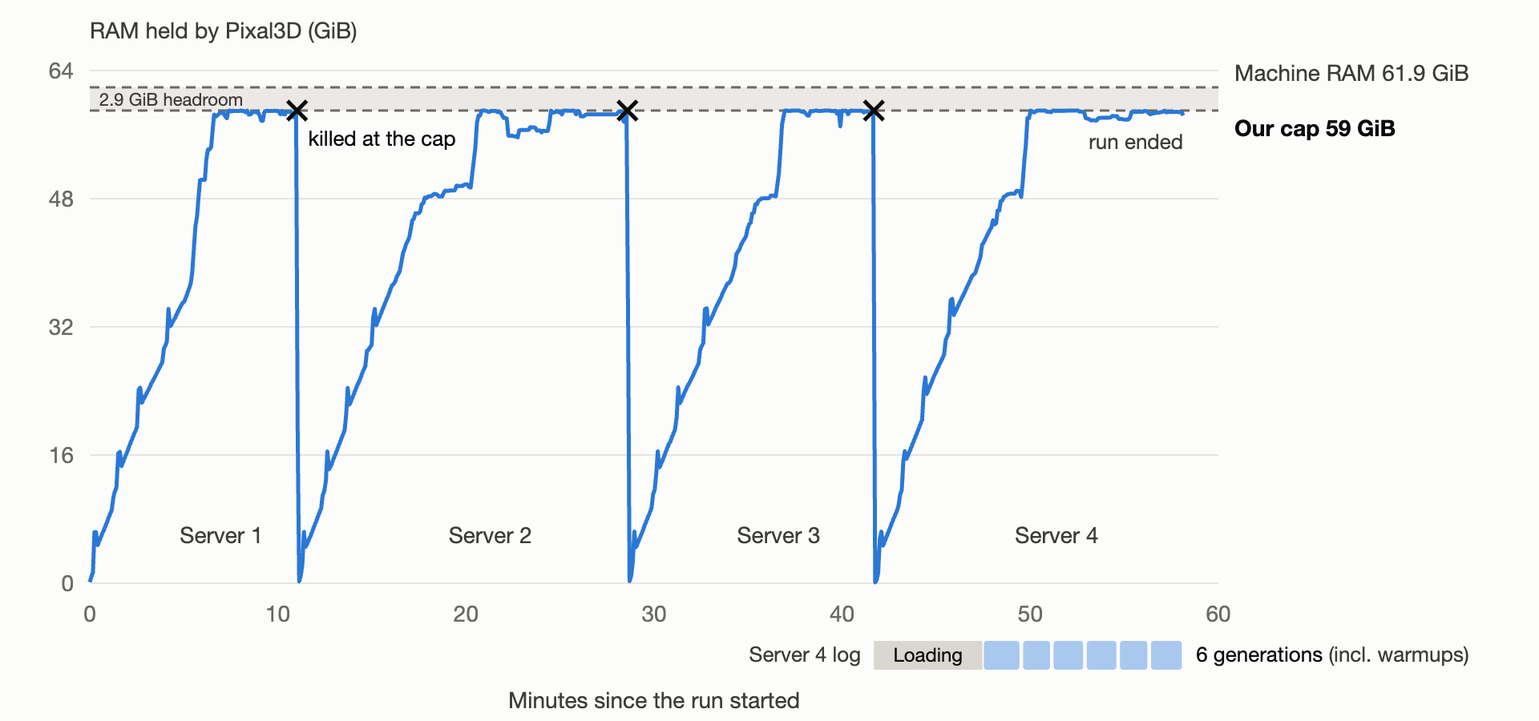
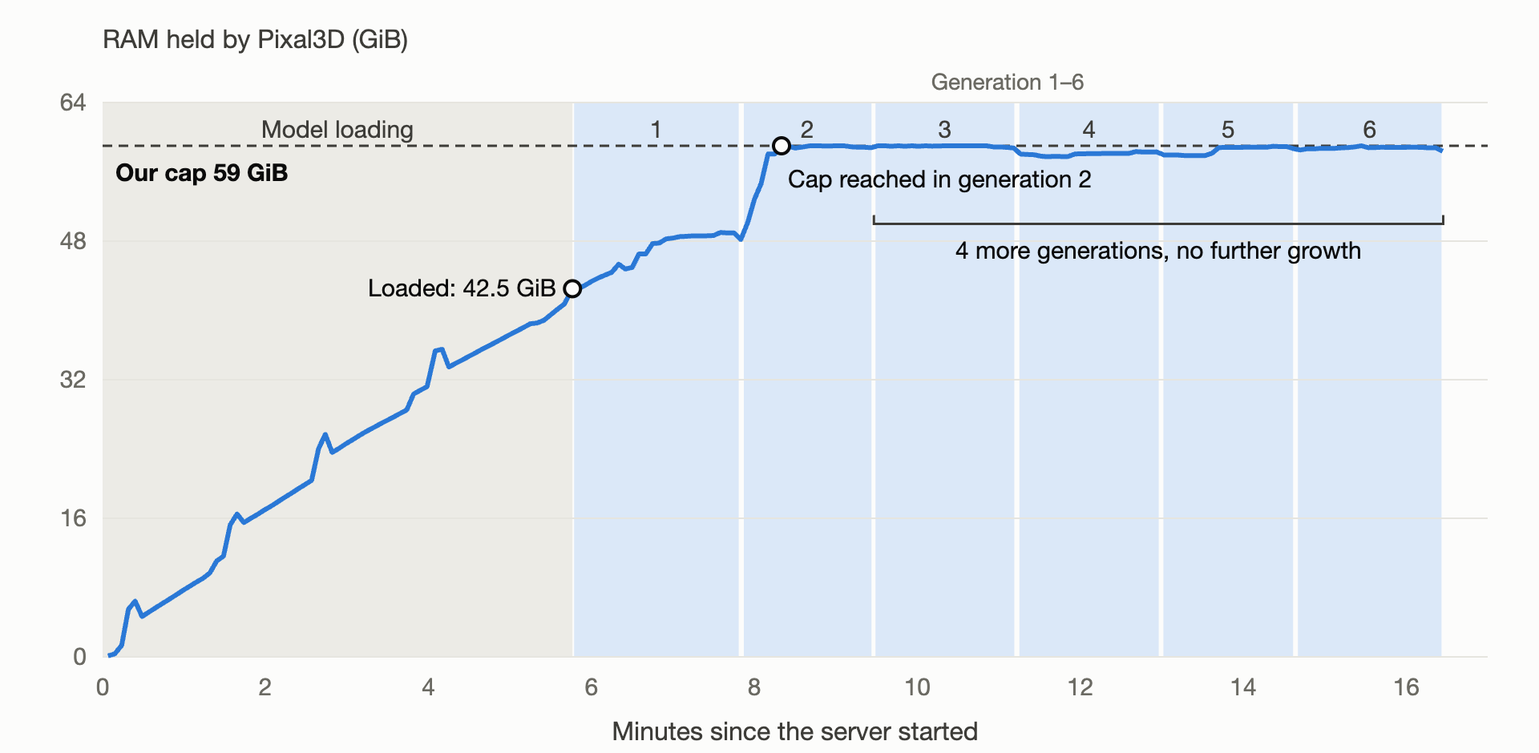
docs(readme): attribute the 4090 restarts to the low_vram peak and our RAM cap

diff --git a/README.ko.md b/README.ko.md
@@ -73,7 +73,7 @@ curl -o chair.glb localhost:8103/api/workflows/runs \
 
 입력마다 한 번씩 생성했다(seed 7, 고흐의 방 의자만 두 번). 판정은 작성자 1인이 확정했다.
 
-1. RTX 4090에서 3D 하나에 중앙값 115초(83~200초), GPU 메모리 약 19.4GiB가 들었다. 다만 그러려면 단계 모델을 시스템 RAM에 두는 `low_vram`을 켜야 했고, 그러면 RAM을 약 59GiB 썼다. 64GB PC에서는 서버를 띄울 때마다 많아야 3개를 만들고 메모리가 모자라 멈췄다([2장](#2-내-기기에서-돌아가는가)).
+1. RTX 4090에서 3D 하나에 중앙값 115초(83~200초), GPU 메모리 약 19.4GiB가 들었다. 다만 그러려면 단계 모델을 시스템 RAM에 두는 `low_vram`을 켜야 했고, 그러면 RAM을 최대 약 59GiB 썼다. 이 최대치가 64GB PC에 우리가 건 RAM 상한(59GiB)과 거의 같아서, 서버를 띄울 때마다 많아야 3개를 만들고 상한에 걸려 작업 프로세스가 종료됐다. 생성할수록 RAM이 계속 늘지는 않았다([2장](#2-내-기기에서-돌아가는가)).
 2. `low_vram`을 끄면 생성 해상도 1536(기본)에서는 생성 직전에 GPU 메모리가 22.45GiB 차 있었고, 1536과 1024 모두 생성을 시작하자마자 GPU 메모리 부족으로 실패했다([2장](#2-내-기기에서-돌아가는가)).
 3. 명화 11점 모두 3D 메시가 나왔고, 손에 가려진 우유 주전자 하나를 빼면 돌려 봐도 이어지는 입체였다. 형태를 판정한 4점 중 2점은 실루엣이 그림과 같았고, 2점은 큰 윤곽은 맞되 일부가 빠지거나 옆·뒤가 찢겼다([3.1](#31-그림-한-장--3d)).
 4. 결과는 모두 그림의 시점, 기울기, 배치 그대로 놓였다. 그래서 그림의 원근 왜곡도 형태가 됐다. 고흐의 의자는 옆에서 보면 크게 기울어 있다([3.2](#32-그림의-시점-그대로)).
@@ -88,7 +88,7 @@ curl -o chair.glb localhost:8103/api/workflows/runs \
 | 기기 | 돌아가나 | 3D 하나 생성 | 최대 메모리 |
 |---|---|---|---|
 | Apple M2 16GB | 공식 코드는 돌지 않는다(CUDA 전용). 제3자 8비트 이식판으로는 1장이 돌아갔다 | 약 34분(1장, 배경 제거 8분 포함) | 재지 못했다(스왑 +3.3GB) |
-| RTX 4090 24GB(RAM 64GB) | `low_vram`을 켜면 돌아가지만, 서버당 많아야 3개 뒤 RAM 부족으로 멈춘다 | 115초(중앙값) | GPU 19.4GiB, 시스템 RAM 약 59GiB |
+| RTX 4090 24GB(RAM 64GB) | `low_vram`을 켜면 돌아간다. RAM 최대치가 우리가 건 상한(59GiB)과 비슷해, 서버당 많아야 3개 뒤 상한에 걸렸다 | 115초(중앙값) | GPU 19.4GiB, 시스템 RAM 약 59GiB |
 | DGX Spark(GB10, 통합 메모리 128GB) | CUDA 툴킷과 Triton을 맞추면 돌아간다(CUDA 12.9로 빌드, Triton 3.5.1). `low_vram`을 끄고 해상도 1536으로도 돌아간다 | 169~420초(`low_vram` 켬, 1024), 255~305초(끔, 1536) | 기기 전체 약 47GiB(`low_vram` 끔). 켜면 작업 프로세스만 89.6GiB |
 
 메모리 열은 기기마다 잰 대상이 달라 서로 바로 비교할 수 없다. 4090은 GPU 메모리와 측정 프로세스 묶음의 RAM, DGX Spark는 기기 전체 사용량(`free`)과 작업 프로세스 RSS, Mac은 스왑 증가량이다.
@@ -128,9 +128,9 @@ curl -o chair.glb localhost:8103/api/workflows/runs \
 
 `low_vram`을 켜면 단계 모델을 시스템 RAM에 두고 필요한 단계만 GPU로 옮긴다. GPU는 19.4GiB로 줄었지만 대신 시스템 RAM을 약 59GiB 썼다. 이번 4090 PC의 RAM은 61.9GiB였다. 처음에 상한 없이 돌렸을 때는 RAM과 스왑이 바닥나 원격 접속이 10분간 끊겼다. 그 뒤로는 측정 프로세스에 상한(59GiB)을 걸었고, 넘으면 측정만 멈추게 했다.
 
-![4090에서 Pixal3D가 쓴 RAM의 시간 변화. 서버를 띄울 때마다 약 7분에 걸쳐 59GiB까지 차오르고, 생성을 몇 번 하다가 상한에 걸려 끊기기를 반복한다](docs/images/ko/ram-4090.png)
+![4090에서 Pixal3D 서버 하나가 쓴 RAM. 모델 로딩 동안 42.5GiB까지 오르고, 두 번째 생성 중 59GiB 상한에 닿은 뒤 4번을 더 생성해도 그대로다](docs/images/ko/ram-4090.png)
 
-그림 2(4090): Pixal3D가 쓴 시스템 RAM. 서버를 띄우면 약 7분 안에 59GiB 가까이 찬다(이 값에는 파일 캐시가 포함된다). 로그가 남은 서버 4에서는 모델 로딩 5.8분 뒤 42.5GiB였고, 두 번째 생성 중에 상한에 닿았다(그림 아래 띠). 그 상태로 많아야 3개를 만들다가 상한에 걸려 작업 프로세스가 종료됐다. 종료 순간 작업 프로세스가 실제로 쥔 메모리는 58.7GiB였다. 이 그림은 명화 7점(3.4·3.5절)을 만든 실행의 기록이고, 7점을 채우는 데 서버를 네 번 띄웠다.
+그림 2(4090): Pixal3D 서버 하나(명화 7점 실행의 네 번째 서버)가 쓴 시스템 RAM(파일 캐시 포함). 모델 로딩 5.8분 동안 42.5GiB까지 차고, 두 번째 생성 중에 우리가 건 상한(59GiB)에 닿았다. 그 뒤로는 4번을 더 생성해도 늘지 않았다. 같은 실행의 서버 1~3은 생성 중 잠깐 상한을 넘는 순간 작업 프로세스가 종료됐고(서버마다 많아야 3개), 종료 순간 작업 프로세스가 쥔 메모리는 58.7GiB였다. 명화 7점(3.4·3.5절)을 채우는 데 서버를 네 번 띄웠다.
 
 표 3: RTX 4090, 그림별 생성 시간과 결과 크기(입력을 읽는 크기 512, seed 7)
 
@@ -201,7 +201,7 @@ python tools/run_pixal3d_estimated.py --image cut_cutout.png --models <models> \
 - **4090에서 RAM 상한에 걸린 입력 1024 읽기가 DGX Spark에서는 돌았다.** 512보다 5~7% 더 걸렸고 면 수는 거의 같았다.
 - **GPU 메모리 최대치는 17.7~18.0GiB였지만, 통합 메모리에서는 이 값이 작업이 쥔 메모리를 보여 주지 않는다.** 이 값은 nvidia-smi가 서버 프로세스에 대해 알려 주는 GPU 메모리다(GB10에서는 기기 전체 값이 [N/A]). `low_vram`을 끈 1536(아래)에서도 17.7~17.8GiB였는데, 그때 기기 전체로는 약 47GiB를 썼다.
 
-**통합 메모리에서는 `low_vram`이 오히려 메모리를 더 쓴 것으로 보인다.** `low_vram`을 켜면 워밍업과 첫 생성 뒤 작업 프로세스의 상주 메모리(RSS)가 89.6GiB였다. 끄고 1536으로 돌리면 기기 전체 메모리 사용이 약 47GiB였고, 서버 한 번에 3D 3개를 연달아 만들었다. `low_vram`을 켠 첫 서버는 다음 생성에서 우리가 건 100GiB 상한에 걸려 메모리 부족으로 종료됐다. 다시 띄운 서버 두 번은 각각 워밍업을 포함해 6번을 연달아 생성하는 동안 상한에 걸리지 않았다. 두 값은 같은 지표가 아니다. 89.6GiB는 작업 프로세스의 RSS라 메모리에 올린 가중치 파일 페이지가 들어갈 수 있고, 47GiB는 생성 중 한 시점에 `free`로 본 기기 전체 사용량이다.
+**통합 메모리에서는 `low_vram`이 오히려 메모리를 더 쓴 것으로 보인다.** `low_vram`을 켜면 워밍업과 첫 생성 뒤 작업 프로세스의 상주 메모리(RSS)가 89.6GiB였다. 끄고 1536으로 돌리면 기기 전체 메모리 사용이 약 47GiB였고, 서버 한 번에 3D 3개를 연달아 만들었다. `low_vram`을 켠 첫 서버는 다음 생성 도중 잠깐 우리가 건 100GiB 상한을 넘어 작업 프로세스가 종료됐다. 다시 띄운 서버 두 번은 각각 워밍업을 포함해 6번을 연달아 생성하는 동안 상한에 걸리지 않았다. 두 값은 같은 지표가 아니다. 89.6GiB는 작업 프로세스의 RSS라 메모리에 올린 가중치 파일 페이지가 들어갈 수 있고, 47GiB는 생성 중 한 시점에 `free`로 본 기기 전체 사용량이다.
 
 **`low_vram`을 끈 생성 해상도 1536(업스트림 기본값)도 DGX Spark에서는 돌았다.** 4090에서는 돌지 않던 설정이다. 그림 3점을 seed 7로 다시 만들었다.
 
@@ -308,7 +308,7 @@ python tools/run_pixal3d_estimated.py --image cut_cutout.png --models <models> \
 
 ## 4 권고
 
-- 24GB GPU에서는 `low_vram: true`, `resolution: 1024`로 띄운다. 시스템 RAM이 64GB라면 다른 큰 프로그램을 끄고, 서버가 몇 개 만든 뒤 멈추면 다시 띄운다. RAM 96GB 이상이면 여유가 생길 것으로 보지만 재지 않았다.
+- 24GB GPU에서는 `low_vram: true`, `resolution: 1024`로 띄운다. 시스템 RAM이 64GB라면 다른 큰 프로그램을 끄고, RAM 상한에 걸려 작업 프로세스가 종료되면 서버를 다시 띄운다. RAM 96GB 이상이면 여유가 생길 것으로 보지만 재지 않았다.
 - DGX Spark(통합 메모리 128GB)에서는 `low_vram: false`로 띄운다. 켜면 작업 프로세스가 89.6GiB까지 커져 한 번은 우리가 건 100GiB 상한에서 종료됐다. 끄고 1536으로 돌리면 기기 전체로 약 47GiB를 썼다. 돌리려면 2장처럼 CUDA 툴킷과 Triton을 맞춰야 한다.
 - 서버는 한 번 띄워 여러 장을 이어서 처리한다. 모델 로딩이 5~6.5분으로, 3D 하나를 만드는 시간(약 2분)의 세 배쯤이다.
 - 입력은 물체만 남기고 배경을 미리 지워 넣는다. 배경째 넣으면 7점 중 5점에서 바닥이나 배경이 판으로 붙었다.
@@ -330,14 +330,14 @@ python tools/run_pixal3d_estimated.py --image cut_cutout.png --models <models> \
 | 현상 | 보인 곳 | 확인하지 못한 가설 |
 |---|---|---|
 | 바닥·배경이 판으로 붙음 | 물뿌리개, 장미, 우유 주전자, 인물 머리 | seed를 바꿔도 같은 자리에 붙는가(그림 속 바닥이 정하는가) |
-| 옆·뒤 표면의 구멍과 찢김 | 구두, 인물 머리, 의자 | 입력을 1024로 읽으면 줄어드는가(4090은 RAM 부족, DGX Spark는 의자와 해골을 1024로 만들었지만 이 리포트에서 표면을 비교하지 않았다) |
+| 옆·뒤 표면의 구멍과 찢김 | 구두, 인물 머리, 의자 | 입력을 1024로 읽으면 줄어드는가(4090은 RAM 상한에 걸림, DGX Spark는 의자와 해골을 1024로 만들었지만 이 리포트에서 표면을 비교하지 않았다) |
 | 그림에 없던 청록 얼룩 | 의자, 구두 | 그림의 벽·바닥 색이 번진 것인가 |
 | 뒷면이 단순한 어두운 덩어리 | 사과 바구니, 인물 머리 | |
 | 그림 끝에서 잘린 면이 평평하게 남음 | 헤다 주석 주전자, 인물 머리 | 그림 테두리가 정하는가 |
 | 흩어진 얇은 파편 | 헤다 정물 바닥 | |
 
 - 입력마다 seed 하나(7)로 한 번씩 생성했다. 같은 seed로 두 번 만든 고흐의 방 의자는 GLB 크기가 35.8MB, 35.7MB로 조금 달랐지만 형태가 얼마나 다른지는 비교하지 않았다. seed에 따라 얼마나 달라지는지도 재지 않았다.
-- 면 수와 텍스처 크기를 줄인 GLB(게임·웹용)는 만들지 않았다. 4090이 서버를 띄울 때마다 많아야 3개만 만들어서, 작품 수를 늘리는 데 시간을 썼다.
+- 면 수와 텍스처 크기를 줄인 GLB(게임·웹용)는 만들지 않았다. 4090에서는 RAM 상한 때문에 서버를 띄울 때마다 많아야 3개만 만들 수 있어서, 작품 수를 늘리는 데 시간을 썼다.
 - 실제 사진은 넣지 않았다. 모든 입력이 유화다.
 - 멀티뷰 입력(여러 각도 사진을 함께 넣는 기능)은 카메라 포즈가 필요해 시험하지 않았다.
 - 논문의 수치(Toys4K의 IoU 등)는 다시 재지 않았고, 다른 이미지→3D 모델과 비교하지 않았다.

diff --git a/README.md b/README.md
@@ -73,7 +73,7 @@ The result is one GLB file (about 1 million faces, 4096×4096 texture, 35–45MB
 
 Each input was generated once (seed 7; only The Bedroom chair twice). One author confirmed the verdicts.
 
-1. On an RTX 4090, one 3D took a median of 115 s (83–200 s) and about 19.4GiB of GPU memory. Getting there required turning on `low_vram`, which keeps the stage models in system RAM, and then RAM use was about 59GiB. On a 64GB PC, each server start made at most 3 models and then stopped for lack of memory ([Section 2](#2-does-it-run-on-my-machine)).
+1. On an RTX 4090, one 3D took a median of 115 s (83–200 s) and about 19.4GiB of GPU memory. Getting there required turning on `low_vram`, which keeps the stage models in system RAM, and then RAM use peaked at about 59GiB. That peak is almost exactly the RAM cap we set on the 64GB PC (59GiB), so each server start made at most 3 models before the worker process hit the cap and was terminated. RAM did not keep growing with each generation ([Section 2](#2-does-it-run-on-my-machine)).
 2. With `low_vram` off, at generation resolution 1536 (default) GPU memory was already at 22.45GiB just before generation, and at both 1536 and 1024 generation failed with GPU out-of-memory as soon as it started ([Section 2](#2-does-it-run-on-my-machine)).
 3. All 11 paintings produced a 3D mesh, and except for one milk jug hidden by a hand, each was a continuous solid when rotated. Of the 4 judged on shape, 2 had the same silhouette as the painting, and 2 had the overall outline right but lost some parts or were torn on the sides and back ([3.1](#31-one-picture--3d)).
 4. Every result sat in the painting's own viewpoint, tilt and placement. So the painting's perspective distortions also became shape. Van Gogh's chair leans sharply when seen from the side ([3.2](#32-in-the-paintings-own-viewpoint)).
@@ -88,7 +88,7 @@ Table 1: Summary by device
 | Device | Runs? | One 3D | Peak memory |
 |---|---|---|---|
 | Apple M2 16GB | The official code does not (CUDA-only). A third-party 8-bit port ran one picture | About 34 min (1 picture, incl. 8 min background removal) | Not measured (swap +3.3GB) |
-| RTX 4090 24GB (64GB RAM) | Runs with `low_vram` on, but stops after at most 3 per server for lack of RAM | 115 s (median) | GPU 19.4GiB, system RAM about 59GiB |
+| RTX 4090 24GB (64GB RAM) | Runs with `low_vram` on. Peak RAM is close to our 59GiB cap, so each server hit the cap after at most 3 | 115 s (median) | GPU 19.4GiB, system RAM about 59GiB |
 | DGX Spark (GB10, 128GB unified memory) | Runs with a matching CUDA toolkit and Triton (built with CUDA 12.9, Triton 3.5.1). Also runs with `low_vram` off at resolution 1536 | 169–420 s (`low_vram` on, 1024), 255–305 s (off, 1536) | Whole device about 47GiB (`low_vram` off). With it on, the worker alone 89.6GiB |
 
 The memory column measures different things per device, so the numbers cannot be compared directly: GPU memory and the measured process group's RAM on the 4090, whole-device usage (`free`) and the worker's RSS on the DGX Spark, and swap growth on the Mac.
@@ -128,9 +128,9 @@ Table 2: Devices and methods
 
 With `low_vram` on, the stage models stay in system RAM and only the stage that is needed moves to the GPU. GPU use dropped to 19.4GiB, but system RAM use was about 59GiB instead. This 4090 PC had 61.9GiB of RAM. The first time we ran it without a cap, RAM and swap ran out and remote access was lost for 10 minutes. After that we put a cap (59GiB) on the measured processes, so that going over it stopped only the measurement.
 
-![System RAM used by Pixal3D on the 4090 over time. Each server start fills it to 59GiB over about 7 minutes, then after a few generations it hits the cap and is cut off, again and again](docs/images/en/ram-4090.png)
+![RAM used by one Pixal3D server on the 4090. It climbs to 42.5GiB during model loading, reaches the 59GiB cap during the second generation, and stays there through four more generations](docs/images/en/ram-4090.png)
 
-Figure 2 (4090): System RAM used by Pixal3D. After a server start, it fills to near 59GiB within about 7 minutes (this value includes the file cache). On server 4, whose log survives, RAM was 42.5GiB after 5.8 minutes of model loading and reached the cap during the second generation (strip below the chart). In that state it made at most 3 models, then hit the cap and the worker process was terminated. At the moment of termination, the memory the worker process actually held was 58.7GiB. This chart is the run that made 7 of the paintings (sections 3.4 and 3.5); completing those 7 took four server starts.
+Figure 2 (4090): System RAM used by one Pixal3D server (the fourth server of the run that made 7 paintings), including the file cache. It filled to 42.5GiB over 5.8 minutes of model loading and reached our cap (59GiB) during the second generation. After that it did not grow over four more generations. In the same run, on servers 1–3 the worker process was terminated when a generation briefly pushed past the cap (at most 3 per server); at that moment the worker process held 58.7GiB. Completing the 7 paintings (sections 3.4 and 3.5) took four server starts.
 
 Table 3: RTX 4090, generation time and output size per painting (input read size 512, seed 7)
 
@@ -201,7 +201,7 @@ Table 4: DGX Spark and RTX 4090 with the same settings (`low_vram` on, generatio
 - **Reading the input at 1024, which hit the RAM cap on the 4090, ran on the DGX Spark.** It took 5–7% longer than at 512, and face counts were nearly the same.
 - **Peak GPU memory was 17.7–18.0GiB, but on unified memory this number does not show how much memory the job holds.** It is the GPU memory nvidia-smi reports for the server's processes (the whole-device value reads [N/A] on GB10). With `low_vram` off at 1536 (below) it was also 17.7–17.8GiB, while the whole device used about 47GiB.
 
-**On unified memory, `low_vram` appeared to use more memory, not less.** With `low_vram` on, the worker process's resident memory (RSS) was 89.6GiB after the warmup and the first generation. With it off at 1536, memory use for the whole device was about 47GiB, and three 3D models were made in a row on one server start. With `low_vram` on, the first server start hit the 100GiB cap we set on the next generation and the worker was killed for lack of memory. The next two server starts each made six generations in a row (warmups included) without hitting the cap. The two numbers are not the same measure: 89.6GiB is the worker's RSS, which can include weight-file pages mapped into memory, and 47GiB is whole-device usage from `free` at one moment during generation.
+**On unified memory, `low_vram` appeared to use more memory, not less.** With `low_vram` on, the worker process's resident memory (RSS) was 89.6GiB after the warmup and the first generation. With it off at 1536, memory use for the whole device was about 47GiB, and three 3D models were made in a row on one server start. With `low_vram` on, the first server start briefly went over the 100GiB cap we set during the next generation, and the worker process was terminated. The next two server starts each made six generations in a row (warmups included) without hitting the cap. The two numbers are not the same measure: 89.6GiB is the worker's RSS, which can include weight-file pages mapped into memory, and 47GiB is whole-device usage from `free` at one moment during generation.
 
 **`low_vram` off at generation resolution 1536 (the upstream default) also ran on the DGX Spark.** The 4090 could not run this setting. We remade three paintings with seed 7.
 
@@ -308,7 +308,7 @@ Figure 7 (DGX Spark): The Vermeer milk jug cut wider. From left, input, front, 3
 
 ## 4 Recommendations
 
-- On a 24GB GPU, start with `low_vram: true` and `resolution: 1024`. With 64GB of system RAM, close other large programs, and when the server stops after making a few, start it again. We expect 96GB of RAM or more to leave headroom, but did not measure it.
+- On a 24GB GPU, start with `low_vram: true` and `resolution: 1024`. With 64GB of system RAM, close other large programs, and when the worker process is terminated at the RAM cap, start the server again. We expect 96GB of RAM or more to leave headroom, but did not measure it.
 - On a DGX Spark (128GB unified memory), set `low_vram: false`. With it on, the worker grew to 89.6GiB and was killed once at our 100GiB cap. With it off at 1536, the whole device used about 47GiB. Getting it to run needs the CUDA toolkit and Triton setup in section 2.
 - Start the server once and process several pictures in a row. Model loading takes 5–6.5 minutes, about three times the time to make one 3D (about 2 minutes).
 - Remove the background beforehand so only the object is left. With the background in, the floor or background stuck on as a slab in 5 of 7.
@@ -330,14 +330,14 @@ These are effects seen repeatedly across results, and hypotheses we could not co
 | Effect | Where seen | Unconfirmed hypothesis |
 |---|---|---|
 | Floor or background stuck on as a slab | Watering can, roses, milk jug, figure's head | Does it stick in the same place with a different seed (is it decided by the floor in the painting)? |
-| Holes and tears in side and back surfaces | Shoes, figure's head, chair | Do they shrink if the input is read at 1024 (the 4090 ran out of RAM; the DGX Spark made the chair and skull at 1024, but this report does not compare their surfaces)? |
+| Holes and tears in side and back surfaces | Shoes, figure's head, chair | Do they shrink if the input is read at 1024 (the 4090 hit the RAM cap; the DGX Spark made the chair and skull at 1024, but this report does not compare their surfaces)? |
 | Teal stains not in the painting | Chair, shoes | Is this the painting's wall or floor color bleeding? |
 | Back is a simple dark lump | Basket of apples, figure's head | |
 | Face cut at the painting's edge left flat | Heda pewter jug, figure's head | Is it decided by the painting's border? |
 | Scattered thin fragments | Floor of the Heda still life | |
 
 - Each input was generated once with one seed (7). The Bedroom chair, made twice with the same seed, gave GLBs of slightly different size (35.8MB and 35.7MB), but we did not compare how much the shapes differ. We did not measure how much results vary with the seed either.
-- We did not make GLBs with reduced face count and texture size (for games and the web). The 4090 made at most 3 per server start, so we spent the time on adding more paintings.
+- We did not make GLBs with reduced face count and texture size (for games and the web). On the 4090 the RAM cap allowed at most 3 per server start, so we spent the time on adding more paintings.
 - We put in no real photos. Every input is an oil painting.
 - We did not test multi-view input (the feature that takes photos from several angles together), because it needs camera poses.
 - We did not re-measure the paper's numbers (IoU on Toys4K and others), and did not compare with other image-to-3D models.

diff --git a/README.zh-cn.md b/README.zh-cn.md
@@ -73,7 +73,7 @@ curl -o chair.glb localhost:8103/api/workflows/runs \
 
 每个输入生成了一次（seed 7，只有梵高《卧室》椅子生成了两次）。判定由作者 1 人确认。
 
-1. 在 RTX 4090 上生成一个 3D 的中位数为 115 秒（83~200 秒），GPU 显存约 19.4GiB。不过要做到这一点，必须开启把各阶段模型放在系统内存中的 `low_vram`，此时占用约 59GiB 内存。在 64GB 的 PC 上，每次启动服务器后最多生成 3 个就因内存不足而停止（[第 2 章](#2-能在我的设备上运行吗)）。
+1. 在 RTX 4090 上生成一个 3D 的中位数为 115 秒（83~200 秒），GPU 显存约 19.4GiB。不过要做到这一点，必须开启把各阶段模型放在系统内存中的 `low_vram`，此时内存峰值约 59GiB。这个峰值几乎等于我们在 64GB PC 上设置的内存上限（59GiB），所以每次启动服务器最多生成 3 个后，工作进程就触及上限被终止。内存并没有随着生成次数不断增加（[第 2 章](#2-能在我的设备上运行吗)）。
 2. 关闭 `low_vram` 时，在生成分辨率 1536（默认）下，生成开始前 GPU 显存已占用 22.45GiB；1536 和 1024 都在开始生成后立即因显存不足而失败（[第 2 章](#2-能在我的设备上运行吗)）。
 3. 11 幅名画全部生成了 3D 网格，除了被手遮挡的一个牛奶壶，转动查看都是连贯的立体。判定形状的 4 幅中，2 幅剪影与画相同，2 幅大致轮廓吻合，但部分缺失或侧面·背面撕裂（[3.1](#31-一张画--3d)）。
 4. 结果全部按画的视角、倾斜和布局原样摆放。因此画中的透视变形也成了形状。梵高的椅子从侧面看明显倾斜（[3.2](#32-保持画的视角)）。
@@ -88,7 +88,7 @@ curl -o chair.glb localhost:8103/api/workflows/runs \
 | 设备 | 能否运行 | 生成一个 3D | 峰值内存 |
 |---|---|---|---|
 | Apple M2 16GB | 官方代码不能运行（仅支持 CUDA）。第三方 8 比特移植版跑通了 1 张 | 约 34 分钟（1 张，含去除背景 8 分钟） | 未测得（交换空间 +3.3GB） |
-| RTX 4090 24GB（内存 64GB） | 开启 `low_vram` 可以运行，但每个服务器最多生成 3 个后因内存不足停止 | 115 秒（中位数） | GPU 19.4GiB，系统内存约 59GiB |
+| RTX 4090 24GB（内存 64GB） | 开启 `low_vram` 可以运行。内存峰值接近我们设置的上限（59GiB），每个服务器最多生成 3 个后触及上限 | 115 秒（中位数） | GPU 19.4GiB，系统内存约 59GiB |
 | DGX Spark（GB10，128GB 统一内存） | 配好 CUDA 工具包和 Triton 后可以运行（用 CUDA 12.9 构建、Triton 3.5.1）。关闭 `low_vram`、分辨率 1536 也能运行 | 169~420 秒（开启 `low_vram`，1024），255~305 秒（关闭，1536） | 整机约 47GiB（关闭 `low_vram`）。开启时仅工作进程就 89.6GiB |
 
 内存一栏在各设备上测的对象不同，不能直接比较：4090 是 GPU 显存和测量进程组的内存，DGX Spark 是整机占用（`free`）和工作进程 RSS，Mac 是交换空间的增量。
@@ -128,9 +128,9 @@ curl -o chair.glb localhost:8103/api/workflows/runs \
 
 开启 `low_vram` 时，各阶段模型放在系统内存中，只把需要的阶段移到 GPU。GPU 降到了 19.4GiB，但代价是占用约 59GiB 系统内存。这次 4090 PC 的内存为 61.9GiB。最初不设上限运行时，内存和交换空间耗尽，远程连接中断了 10 分钟。此后给测量进程设置了上限（59GiB），超出时只停止测量。
 
-![Pixal3D 在 4090 上占用内存随时间的变化。每次启动服务器，约 7 分钟内涨到 59GiB，生成几次后触及上限而中断，如此反复](docs/images/zh-cn/ram-4090.png)
+![4090 上一个 Pixal3D 服务器占用的内存。加载模型时升到 42.5GiB，第二次生成时达到 59GiB 上限，之后再生成 4 次也保持不变](docs/images/zh-cn/ram-4090.png)
 
-图 2（4090）：Pixal3D 占用的系统内存。启动服务器后，约 7 分钟内接近 59GiB（该值包含文件缓存）。在保留了日志的服务器 4 上，模型加载 5.8 分钟后为 42.5GiB，第二次生成时触及上限（图下方色带）。在这种状态下最多生成 3 个后触及上限，工作进程被终止。终止时工作进程实际持有的内存为 58.7GiB。这张图记录的是生成其中 7 幅（3.4、3.5 节）的那次运行，为完成这 7 幅，服务器启动了四次。
+图 2（4090）：一个 Pixal3D 服务器（生成 7 幅名画那次运行的第四个服务器）占用的系统内存（含文件缓存）。加载模型的 5.8 分钟内涨到 42.5GiB，第二次生成时达到我们设定的上限（59GiB）。之后再生成 4 次也没有增加。同一次运行中，服务器 1~3 在生成时短暂超过上限的那一刻，工作进程被终止（每个服务器最多 3 个），终止时工作进程持有的内存为 58.7GiB。为完成这 7 幅（3.4、3.5 节），服务器启动了四次。
 
 表 3：RTX 4090，各幅画的生成时间与结果大小（读取输入的尺寸 512，seed 7）
 
@@ -201,7 +201,7 @@ python tools/run_pixal3d_estimated.py --image cut_cutout.png --models <models> \
 - **在 4090 上触及内存上限的以 1024 读取输入，在 DGX Spark 上可以运行。** 比 512 多用 5~7% 的时间，面数几乎相同。
 - **GPU 显存峰值为 17.7~18.0GiB，但在统一内存上这个值并不反映任务占用的内存。** 这是 nvidia-smi 报告的服务器进程 GPU 显存（GB10 上整机数值显示为 [N/A]）。关闭 `low_vram`、1536（见下文）时这个值同样为 17.7~17.8GiB，而当时整机用了约 47GiB。
 
-**在统一内存上，`low_vram` 看起来反而用了更多内存。** 开启 `low_vram` 时，预热和第一次生成后工作进程的常驻内存（RSS）为 89.6GiB。关闭后以 1536 运行时整机内存占用约 47GiB，在一次服务器启动中连续生成了 3 个 3D。开启 `low_vram` 的第一次服务器启动在下一次生成时触及我们设置的 100GiB 上限，因内存不足被终止。之后重新启动的两次服务器各自连续生成 6 次（含预热），都没有触及上限。这两个数值不是同一指标：89.6GiB 是工作进程的 RSS，可能包含映射到内存的权重文件页；47GiB 是生成过程中某一时刻用 `free` 看到的整机占用。
+**在统一内存上，`low_vram` 看起来反而用了更多内存。** 开启 `low_vram` 时，预热和第一次生成后工作进程的常驻内存（RSS）为 89.6GiB。关闭后以 1536 运行时整机内存占用约 47GiB，在一次服务器启动中连续生成了 3 个 3D。开启 `low_vram` 的第一次服务器启动在下一次生成过程中短暂超过我们设置的 100GiB 上限，工作进程被终止。之后重新启动的两次服务器各自连续生成 6 次（含预热），都没有触及上限。这两个数值不是同一指标：89.6GiB 是工作进程的 RSS，可能包含映射到内存的权重文件页；47GiB 是生成过程中某一时刻用 `free` 看到的整机占用。
 
 **关闭 `low_vram`、生成分辨率 1536（上游默认值）在 DGX Spark 上也能运行。** 4090 无法运行这个设置。我们用 seed 7 重新生成了 3 幅画。
 
@@ -308,7 +308,7 @@ python tools/run_pixal3d_estimated.py --image cut_cutout.png --models <models> \
 
 ## 4 建议
 
-- 在 24GB GPU 上用 `low_vram: true`、`resolution: 1024` 启动。系统内存为 64GB 时，关闭其他大型程序，服务器生成几个后停止就重新启动。内存在 96GB 以上应该会有余量，但没有测量。
+- 在 24GB GPU 上用 `low_vram: true`、`resolution: 1024` 启动。系统内存为 64GB 时，关闭其他大型程序，工作进程触及内存上限被终止时，重新启动服务器。内存在 96GB 以上应该会有余量，但没有测量。
 - 在 DGX Spark（128GB 统一内存）上用 `low_vram: false` 启动。开启时工作进程涨到 89.6GiB，有一次在我们设置的 100GiB 上限处被终止。关闭后以 1536 运行时整机约用 47GiB。要运行起来需要像第 2 章那样配好 CUDA 工具包和 Triton。
 - 服务器启动一次后连续处理多张。模型加载要 5~6.5 分钟，约为生成一个 3D 的时间（约 2 分钟）的三倍。
 - 输入时只保留物体，事先去除背景。带着背景输入时，7 幅中有 5 幅地面或背景作为板粘了上来。
@@ -330,14 +330,14 @@ python tools/run_pixal3d_estimated.py --image cut_cutout.png --models <models> \
 | 现象 | 出现位置 | 未能验证的假设 |
 |---|---|---|
 | 地面·背景作为板粘上 | 浇水壶、玫瑰、牛奶壶、人物头部 | 换 seed 后是否仍粘在同一位置（是否由画中的地面决定） |
-| 侧面·背面表面的孔洞和撕裂 | 鞋、人物头部、椅子 | 以 1024 读取输入是否会减少（4090 内存不足；DGX Spark 以 1024 生成了椅子和头骨，但本报告没有比较其表面） |
+| 侧面·背面表面的孔洞和撕裂 | 鞋、人物头部、椅子 | 以 1024 读取输入是否会减少（4090 触及内存上限；DGX Spark 以 1024 生成了椅子和头骨，但本报告没有比较其表面） |
 | 画中没有的青绿色污斑 | 椅子、鞋 | 是否是画中墙面·地面的颜色渗开 |
 | 背面是简单的暗色团块 | 苹果篮、人物头部 | |
 | 在画边缘截断的面保持平坦 | 赫达锡壶、人物头部 | 是否由画的边框决定 |
 | 散落的细薄碎片 | 赫达静物的地面 | |
 
 - 每个输入只用一个 seed（7）生成了一次。用同一 seed 生成两次的梵高《卧室》椅子，GLB 大小略有不同（35.8MB、35.7MB），但没有比较形状差了多少。结果随 seed 变化多大，也没有测量。
-- 没有生成减少面数和纹理尺寸的 GLB（游戏·网页用）。4090 每次启动服务器最多只能生成 3 个，所以时间用在了增加作品数量上。
+- 没有生成减少面数和纹理尺寸的 GLB（游戏·网页用）。4090 因内存上限每次启动服务器最多只能生成 3 个，所以时间用在了增加作品数量上。
 - 没有输入真实照片。所有输入都是油画。
 - 多视图输入（把多个角度的照片一起输入的功能）需要相机位姿，因此没有测试。
 - 没有重新测量论文的数值（Toys4K 上的 IoU 等），也没有与其他图像→3D 模型比较。
